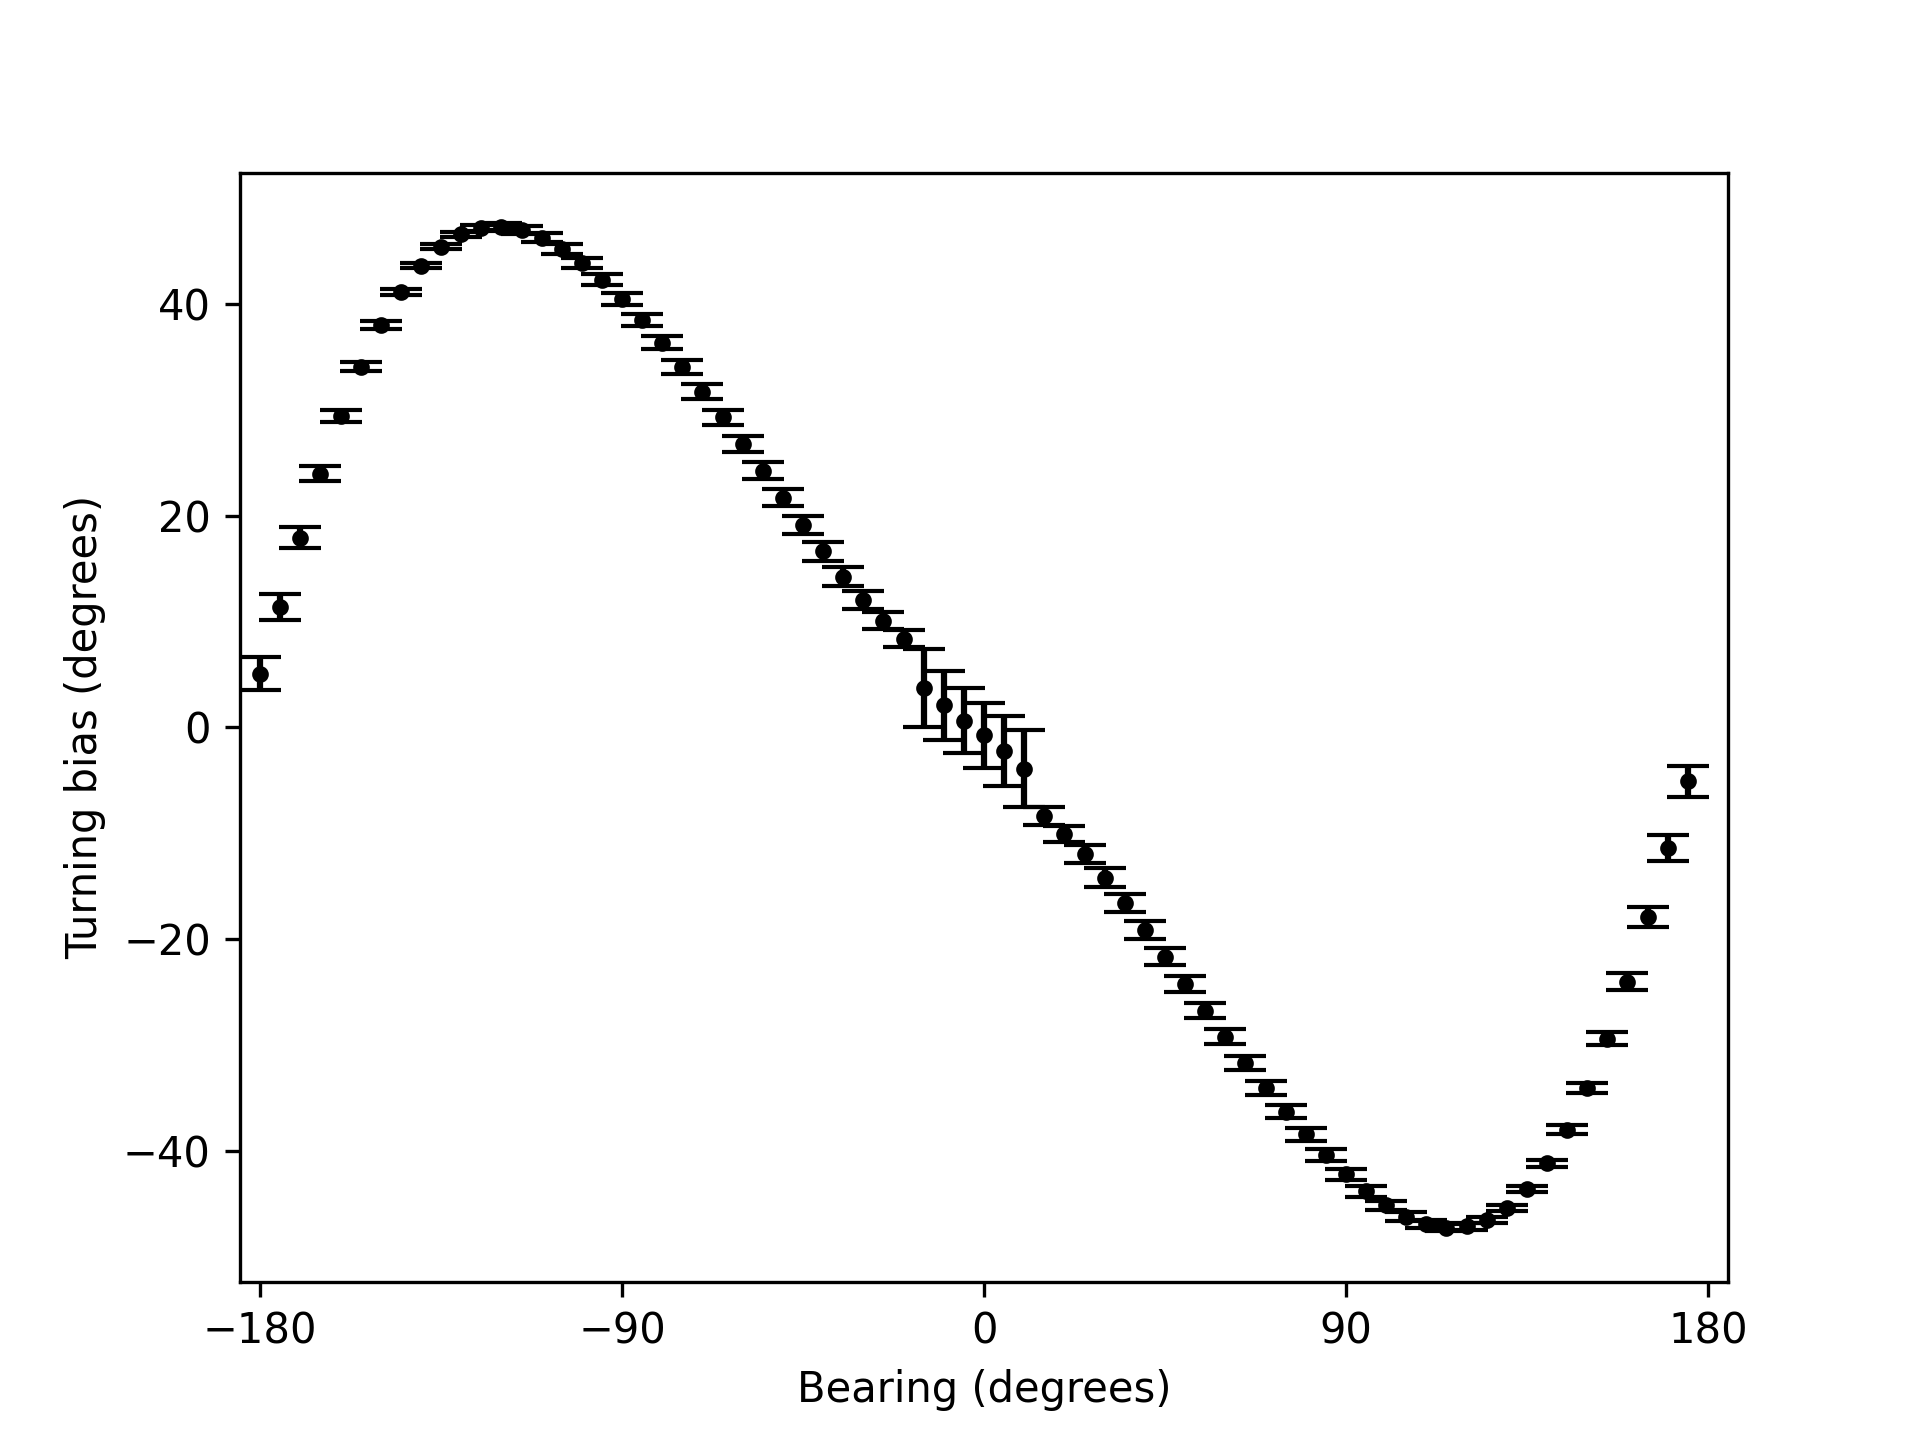
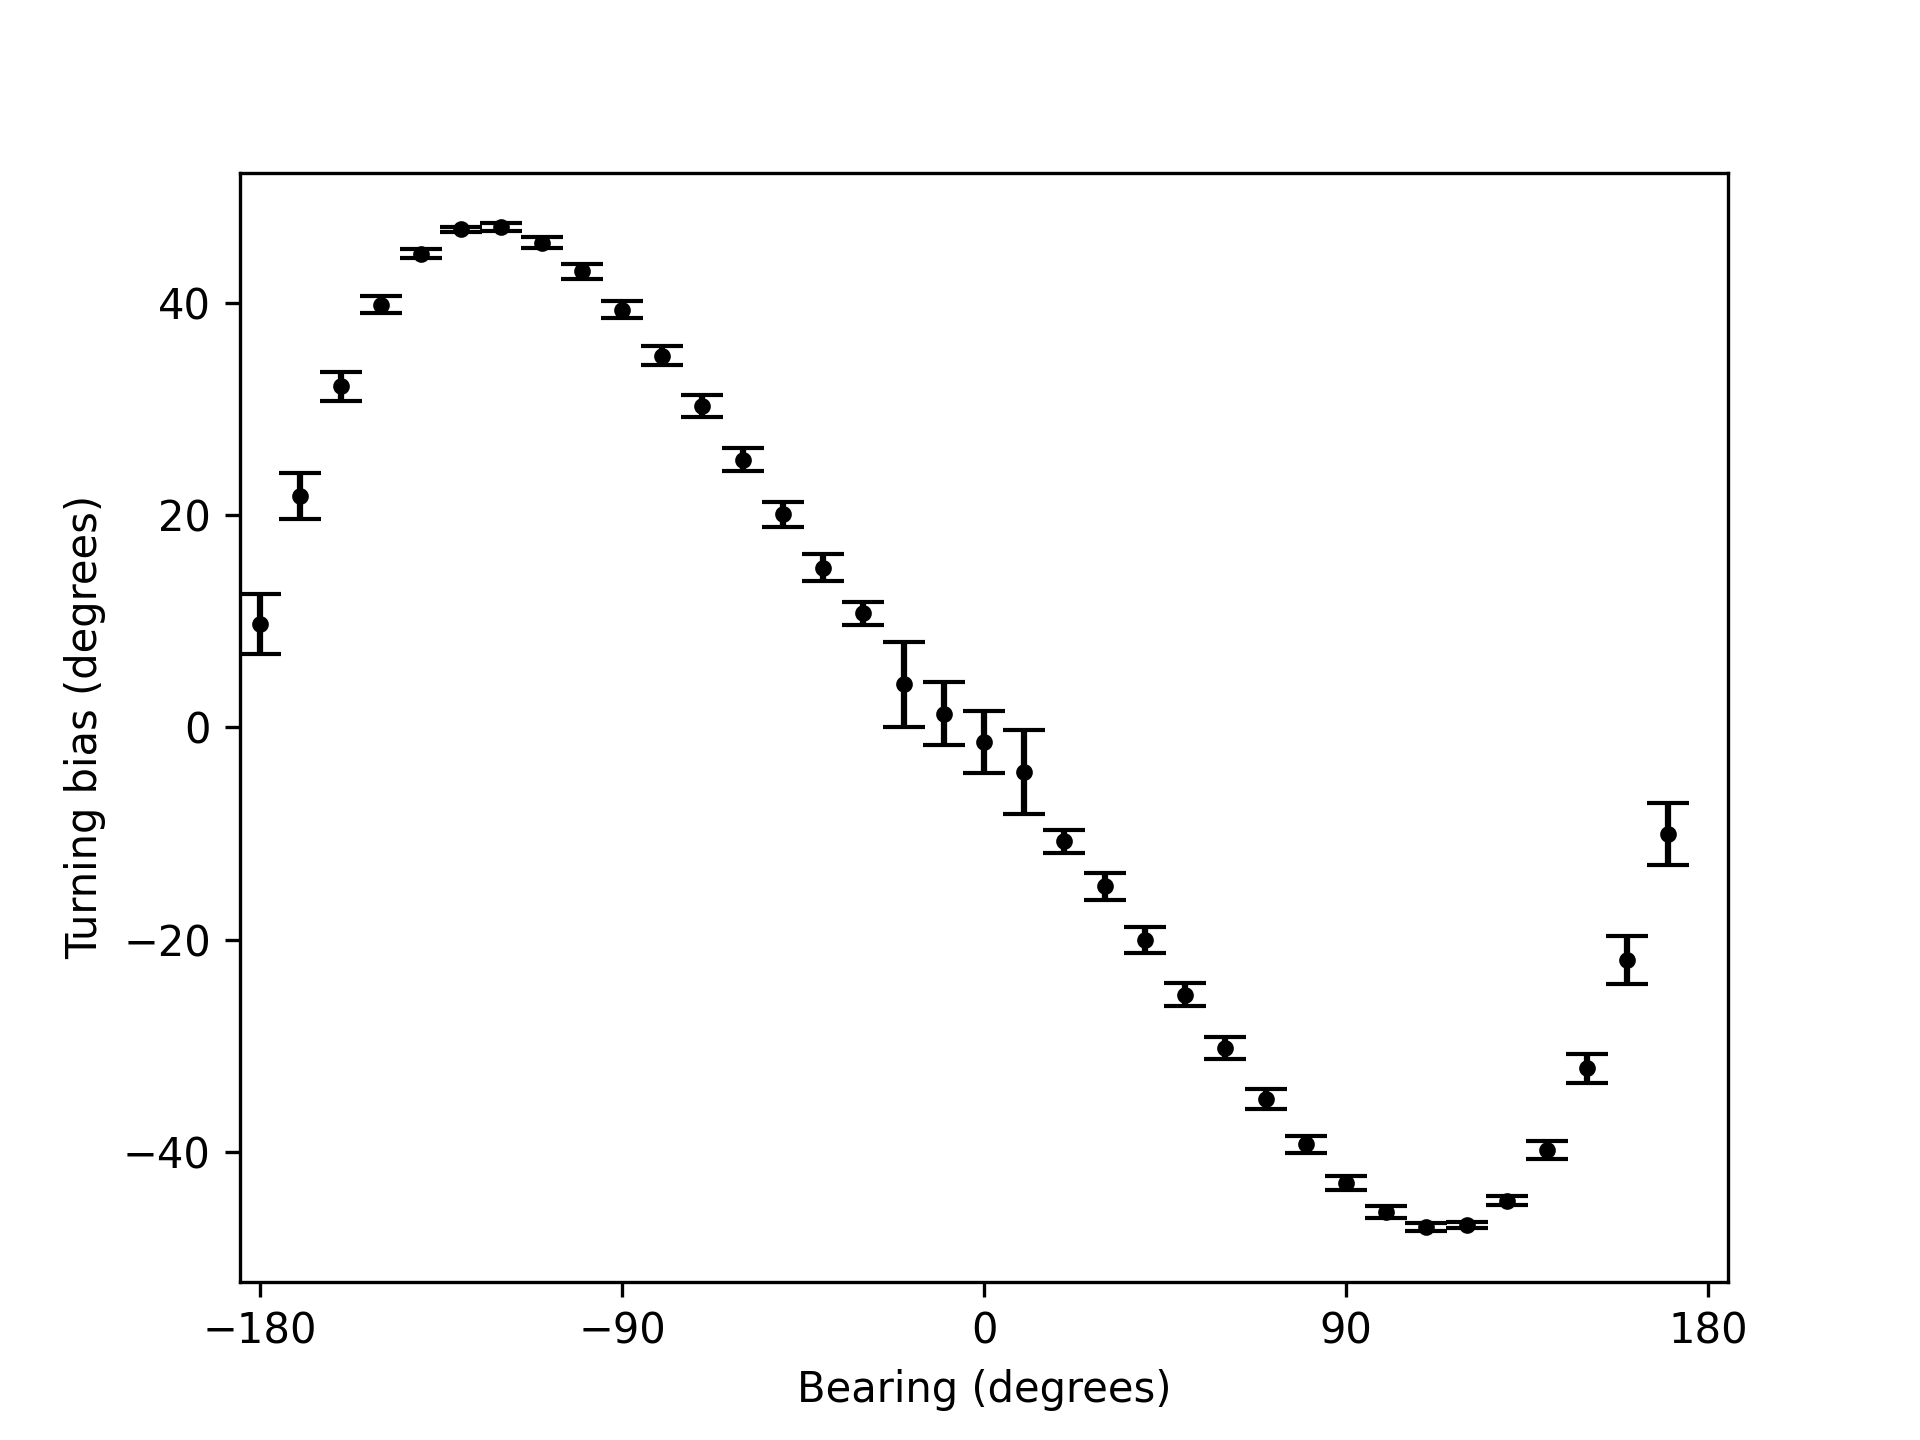
trajectory()の関数に外部への保存機能を追加。また、デザインも大幅に変更して、より参考論文に近いものとした。その他、Turing_bias関連のグラフのプロット数に変更を加えた。

diff --git a/python/figure.py b/python/figure.py
@@ -55,23 +55,46 @@ def single_line_stacks(x, y):
     return lines
 
 
-def trajectory(gene, lines_number):
-    fig, ax = plt.subplots()
+def trajectory(gene, lines_number, out_file_path):
+    fig, ax = plt.subplots(figsize=(10, 7))
 
-    for angle in np.linspace(0, 2 * np.pi, lines_number + 1):
+    # トラジェクトリーの表示
+    for idx, angle in enumerate(np.linspace(0, 2 * np.pi, lines_number + 1)):
         r = oed.klinotaxis(gene, angle)
         alpha, x_peak, y_peak, dt, T, f, v, time, tau = oed.constant("setting")
 
         lines = single_line_stacks(r[0], r[1])
         color = np.linspace(0, time, len(lines))
-        lc = LineCollection(lines, cmap="jet", linewidth=1.5, array=color)
+        lc = LineCollection(lines, cmap="jet", linewidth=1, array=color)
         line = ax.add_collection(lc)
 
-    starting_point = [0, 0]
-    x_peak, y_peak = [x_peak, y_peak]
+        if idx == int(lines_number / 2 + 1):
+            lc_inset = LineCollection(lines, cmap="jet", linewidth=1, array=color)
+            ins_x_min = min(r[0])
+            ins_y_min = min(r[1])
 
-    ax.scatter(*starting_point, color="black", label="Starting Point")
-    ax.scatter(x_peak, y_peak, color="red", label="Gradient Peak")
+    # スタートとゴールの表示
+    starting_point = [0, 0]
+    peak = [x_peak, y_peak]
+
+    ax.scatter(*starting_point, s=15, color="black")
+    ax.scatter(*peak, s=15, color="black")
+
+    y_max = 1
+    ax.vlines(
+        starting_point[0],
+        starting_point[1],
+        y_max,
+        color="black",
+        linestyle="-",
+        linewidth=0.5,
+    )
+    ax.vlines(peak[0], peak[1], y_max, color="black", linestyle="-", linewidth=0.5)
+
+    ax.text(
+        starting_point[0], y_max + 0.1, "Starting Point", horizontalalignment="center"
+    )
+    ax.text(peak[0], y_max + 0.1, "Gradient Peak", horizontalalignment="center")
 
     # 軸メモリや枠を非表示にする
     ax.axis("off")
@@ -79,11 +102,39 @@ def trajectory(gene, lines_number):
     ax.set_aspect("equal")
 
     # 基準の大きさを表示
-    ax.text(4.5, -0.9, "1 cm")
+    ax.text(4.5, -0.95, "1 cm", horizontalalignment="center")
     ax.hlines(-1, 4, 5, color="black", linestyle="-", linewidth=1.5)
 
     # カラーバーの縦の大きさを変更
-    plt.colorbar(line, ax=ax, label="Time", shrink=0.5)
+    plt.colorbar(line, ax=ax, label="time /s", shrink=0.5)
+
+    # インセットプロット
+    axins = ax.inset_axes([0.0, -0.6, 0.6, 0.6])
+    axins.add_collection(lc_inset)
+
+    axins.set_xlim(ins_x_min - 0.1, ins_x_min + 1.4)
+    axins.set_ylim(ins_y_min - 0.1, ins_y_min + 0.9)
+
+    axins.set_aspect("equal")
+    axins.set_xticks([])
+    axins.set_yticks([])
+    for spine in axins.spines.values():
+        spine.set_edgecolor("gray")
+
+    axins.text(ins_x_min + 1.05, ins_y_min + 0.25, "1 mm", horizontalalignment="center")
+    axins.hlines(
+        ins_y_min + 0.2,
+        ins_x_min + 1,
+        ins_x_min + 1.1,
+        color="black",
+        linestyle="-",
+        linewidth=1.5,
+    )
+
+    ax.indicate_inset_zoom(axins)
+
+    # グラフの保存および表示
+    plt.savefig(out_file_path, dpi=300)
     plt.show()
 
     return

diff --git a/src/main.rs b/src/main.rs
@@ -6,5 +6,8 @@ use c_elegans_22::genetic_algorithm::*;
 use c_elegans_22::simulation::*;
 
 fn main() {
-    genetic_algorithm_biologically_correct();
+    // genetic_algorithm();
+    // genetic_algorithm_biologically_correct();
+
+    analysis();
 }
